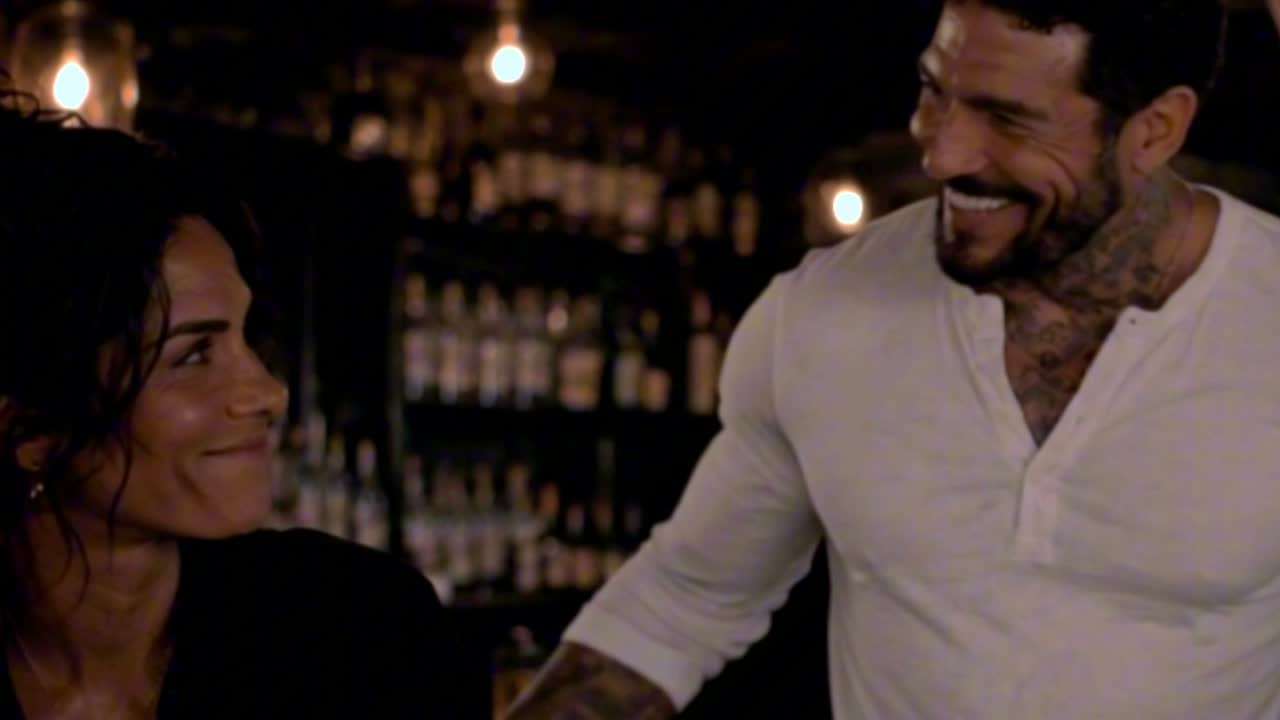
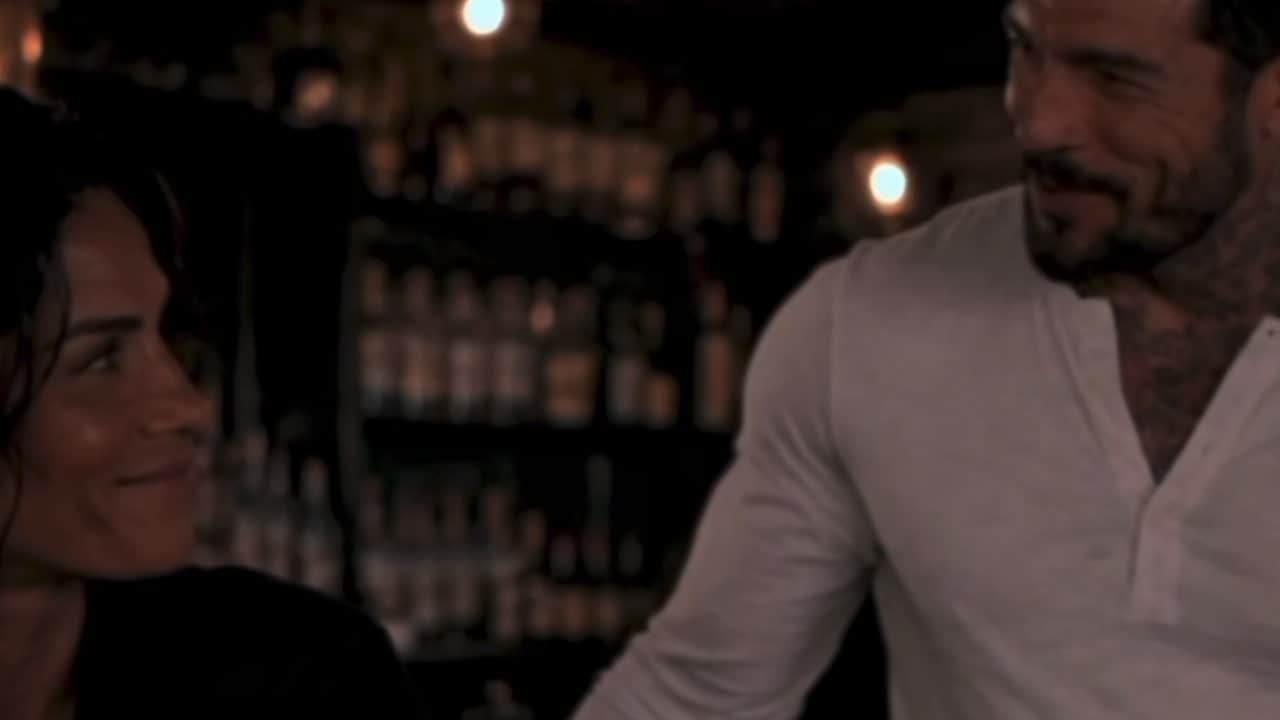
Swap Your Date to the scored cut
REPLACES the dialogue cut rather than sitting beside it as a members' upgrade
the way luna-josh-fair does. That split earns its keep when the public cut is
something a stranger can watch and the scored one is the reward; this scene is
members-only already, so a second members' cut would upgrade nobody and would
leave the dialogue version serving nothing but the preview.

CONFIRMED THE MUSIC rather than trusting the filename, which is the habit here
for a reason: the scored mix carries a continuous low band the dialogue one
does not, and its noise floor sits at 0.56 of the median against 0.49. The bar
ambience was always in both — what arrived is the score.

It is a RE-EXPORT, not a remix. The two are not frame-aligned (at 0:30 one is
on Casey and the other on Luna) and it runs about 4s longer, so the poster had
to be re-found rather than reused: 0:54 is where the same Luna-and-Tyson
two-shot now falls.

Delivered with 3.8s of black on the end, trimmed at 205.0s. Five of the last
six.

PREVIEW RE-CUT from the scored master, so the free minute now has the music
too — otherwise a visitor would hear one film and a member another.

ONE THING WORTH A LATER EXPORT: it is 1320x852 (1.55) against the dialogue
cut's 1936x1080 (1.79), so it pillarboxes slightly in the 16:9 player. The
wall's scored cut already does this at 1.61 and shipped, so this is consistent
rather than new — but it is the most pronounced so far, and 16:9 out of the
timeline would fix it for good.

diff --git a/lib/content/videos.ts b/lib/content/videos.ts
@@ -260,17 +260,32 @@ export const videos: Video[] = [
     // table in scripts/make-previews.mjs so re-running the script does not
     // quietly cut it back to fifteen.
     //
-    // NO SCORE YET — a music pass is coming. The bar ambience is already in
-    // the mix (zero near-silent seconds), so what is missing is the score, not
-    // the room. When it lands, decide then whether it replaces this cut or
-    // becomes the members' one, the way luna-josh-fair went.
+    // SCORED CUT, swapped in 2026-08-09. It REPLACES the dialogue cut rather
+    // than sitting beside it as a members' upgrade the way luna-josh-fair
+    // does, because that split only earns its keep on a scene whose public cut
+    // somebody can actually watch. This one is members-only already, so a
+    // second members' cut would upgrade nobody and leave the dialogue version
+    // serving nothing but the preview.
+    //
+    // Confirmed the music is really there rather than trusting the filename:
+    // the scored mix has a continuous low band the dialogue one does not, and
+    // its noise floor sits at 0.56 of the median against 0.49. It is a
+    // re-export, not a remix — the two are not frame-aligned, and it runs
+    // about 4s longer.
+    //
+    // 1320x852 (1.55) against the dialogue cut's 1936x1080 (1.79), so it
+    // pillarboxes slightly in the 16:9 player. The wall's scored cut already
+    // does this at 1.61; this is the most pronounced so far. Worth an export
+    // at 16:9 whenever Melissa is back in the timeline.
+    //
+    // Delivered with 3.8s of black on the end, trimmed at 205.0s.
     slug: "luna-tyson-casey-bar",
     title: "Your Date",
     synopsis:
       "A fight with Josh leaves Luna in their bar on her own and several drinks in. Tyson comes in with someone he has never mentioned, and by the time she puts her glass down she has decided what it means.",
     file: "luna-tyson-casey-bar.proxy.mp4",
     poster: "/posters/luna-tyson-casey-bar.jpg",
-    durationSeconds: 204,
+    durationSeconds: 205,
     addedOn: "2026-08-09",
     access: "premium",
     mature: true,
